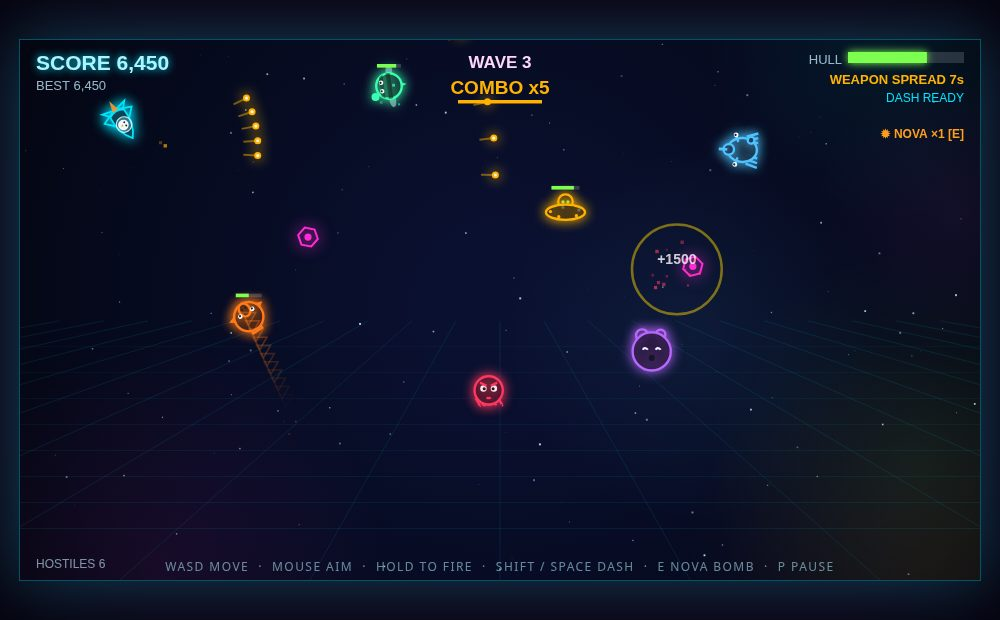
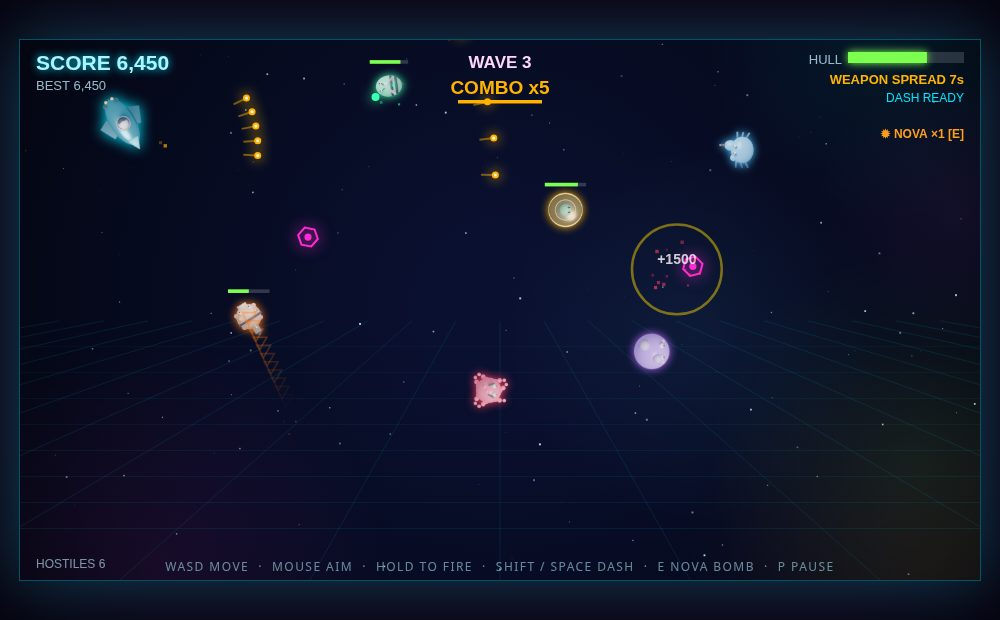
v15: Blender-modelled sprite cast - every character was rebuilt as a 3D model in Blender (procedural primitives, Cycles renders, dev/build_sprites.py) and exported as transparent sprites: the penguin-pilot fighter, octopus chaser/mini with in-plane tentacle chains (2-frame sway), crowned Warden (2 f

diff --git a/game/index.html b/game/index.html
@@ -163,6 +163,21 @@ cv.addEventListener('touchstart', (e) => { e.preventDefault(); const t = e.touch
 cv.addEventListener('touchmove', (e) => { e.preventDefault(); const t = e.touches[0]; const p = canvasPos(t); mouse.x = p.x; mouse.y = p.y; }, { passive: false });
 cv.addEventListener('touchend', (e) => { e.preventDefault(); mouse.down = false; }, { passive: false });
 
+/* ---------- pre-rendered character sprites (modelled in Blender; see dev/build_sprites.py) ---------- */
+const SPR = {};
+let sprReady = 0, sprTotal = 0;
+function loadSprite(name, file) {
+  sprTotal++;
+  const img = new Image();
+  img.onload = () => { sprReady++; };
+  img.onerror = () => { sprReady++; };
+  img.src = 'sprites/' + file;
+  SPR[name] = img;
+}
+loadSprite('player', 'player.png');
+for (const t of ['chaser', 'mini', 'orbiter', 'warden']) { loadSprite(t + '0', t + '0.png'); loadSprite(t + '1', t + '1.png'); }
+for (const t of ['spinner', 'splitter', 'sniper', 'charger']) loadSprite(t, t + '.png');
+
 /* ---------- particles & pickups ---------- */
 function burst(x, y, color, n, spd) {
   if (parts.length > 460) return; // particle budget keeps the frame rate safe
@@ -754,37 +769,27 @@ function drawPlayer() {
   ctx.save();
   ctx.translate(player.x, player.y);
   ctx.rotate(player.angle);
-  ctx.globalAlpha = blink ? 0.35 : 1;
-  ctx.shadowColor = '#00e5ff'; ctx.shadowBlur = 13;
-  ctx.fillStyle = player.dashTime > 0 ? '#aef7ff' : '#0b2b3a';
-  ctx.strokeStyle = '#00e5ff'; ctx.lineWidth = 1.8;
-  // tail fins and swept wings: a proper little fighter silhouette, not an arrowhead
-  ctx.beginPath(); ctx.moveTo(-7, -4); ctx.lineTo(-17, -13); ctx.lineTo(-14, -1); ctx.closePath(); ctx.fill(); ctx.stroke();
-  ctx.beginPath(); ctx.moveTo(-7, 4); ctx.lineTo(-17, 13); ctx.lineTo(-14, 1); ctx.closePath(); ctx.fill(); ctx.stroke();
-  ctx.beginPath(); ctx.moveTo(3, -5); ctx.lineTo(-8, -16); ctx.lineTo(-13, -4); ctx.closePath(); ctx.fill(); ctx.stroke();
-  ctx.beginPath(); ctx.moveTo(3, 5); ctx.lineTo(-8, 16); ctx.lineTo(-13, 4); ctx.closePath(); ctx.fill(); ctx.stroke();
-  // hull
-  ctx.beginPath();
-  ctx.moveTo(19, 0);
-  ctx.quadraticCurveTo(8, 9.5, -10, 8);
-  ctx.quadraticCurveTo(-15, 0, -10, -8);
-  ctx.quadraticCurveTo(8, -9.5, 19, 0);
-  ctx.closePath(); ctx.fill(); ctx.stroke();
-  ctx.shadowBlur = 0;
-  // glass cockpit dome, and inside it the penguin pilot — a bow to the great parody shooters
-  circ(3, 0, 7.8); ctx.fillStyle = 'rgba(160,230,255,0.30)'; ctx.fill();
-  ctx.strokeStyle = 'rgba(230,250,255,0.85)'; ctx.lineWidth = 1.2; circ(3, 0, 7.8); ctx.stroke();
-  circ(3, 0.8, 5.3); ctx.fillStyle = '#f4fbff'; ctx.fill();
-  ctx.fillStyle = '#12222e';
-  circ(1.1, -1.4, 0.95); ctx.fill();
-  circ(4.9, -1.4, 0.95); ctx.fill();
-  ctx.fillStyle = '#ffb300';
-  ctx.beginPath(); ctx.moveTo(1.5, 1.3); ctx.lineTo(4.5, 1.3); ctx.lineTo(3, 3.5); ctx.closePath(); ctx.fill();
-  // engine flame
-  const fl = 6 + Math.sin(G.time * 31) * 2.5 + (Math.hypot(player.vx, player.vy) > 40 ? 5 : 0);
+  // engine flame behind the hull
+  const fl = 7 + Math.sin(G.time * 31) * 2.5 + (Math.hypot(player.vx, player.vy) > 40 ? 6 : 0);
   ctx.fillStyle = 'rgba(255,150,40,0.9)';
-  ctx.beginPath(); ctx.moveTo(-13, 3.2); ctx.lineTo(-13 - fl, 0); ctx.lineTo(-13, -3.2); ctx.closePath(); ctx.fill();
+  ctx.beginPath(); ctx.moveTo(-14, 3.4); ctx.lineTo(-14 - fl, 0); ctx.lineTo(-14, -3.4); ctx.closePath(); ctx.fill();
+  ctx.globalAlpha = blink ? 0.35 : 1;
+  const img = SPR.player;
+  if (img && img.naturalWidth) {
+    ctx.shadowColor = '#00e5ff'; ctx.shadowBlur = 14;
+    const S = 64;
+    ctx.drawImage(img, -S / 2, -S / 2, S, S);
+    ctx.shadowBlur = 0;
+  }
   ctx.restore();
+}
+const DS = { chaser: 4.4, mini: 4.4, spinner: 3.6, splitter: 3.8, sniper: 3.9, charger: 3.9, orbiter: 3.9, warden: 3.9 };
+function spriteFor(type) {
+  if (type === 'chaser' || type === 'mini' || type === 'orbiter' || type === 'warden') {
+    const rate = type === 'orbiter' ? 7 : 2.2; // bees flap fast; tentacles sway slowly
+    return SPR[type + (Math.floor(G.time * rate) % 2)];
+  }
+  return SPR[type];
 }
 function drawEnemies() {
   for (const e of enemies) {
@@ -796,177 +801,25 @@ function drawEnemies() {
       const ws = 1 - wf * 0.55;
       ctx.scale(ws, ws);
     }
-    // characters draw a touch larger than their hit circles: kinder to the player, kinder to the eye
-    if (e.type !== 'warden') ctx.scale(1.18, 1.18);
-    // Character cast, in the spirit of the great parody shooters: every type is a creature
-    // with a face, not a polygon. F = the type's neon accent, BODY = its dark shell.
-    const F = e.flash > 0 ? '#ffffff' : e.color;
-    const BODY = e.flash > 0 ? 'rgba(255,255,255,0.92)' : 'rgba(12,10,26,0.88)';
-    const r = e.r, t = G.time;
-    ctx.shadowColor = e.color; ctx.shadowBlur = 12;
-    ctx.lineWidth = 2; ctx.strokeStyle = F; ctx.fillStyle = BODY;
-    if (e.type === 'chaser' || e.type === 'mini') {
-      // octopus: wavy tentacles, angry eyes — the mini is the same creature, younger
-      ctx.beginPath();
-      const legs = e.type === 'mini' ? 4 : 5;
-      for (let k = 0; k < legs; k++) {
-        const bx = (k - (legs - 1) / 2) * r * 0.36;
-        ctx.moveTo(bx - r * 0.13, r * 0.5);
-        ctx.quadraticCurveTo(bx + Math.sin(t * 6 + k * 1.4 + e.rot) * r * 0.24, r * 1.02, bx + r * 0.15, r * (0.98 + 0.1 * Math.sin(t * 6 + k + e.rot)));
-      }
-      ctx.stroke();
-      circ(0, 0, r * 0.92); ctx.fill(); ctx.stroke();
-      if (e.type === 'mini') {
-        ctx.fillStyle = '#fff'; circ(0, -r * 0.08, r * 0.30); ctx.fill();
-        ctx.fillStyle = '#141824'; circ(r * 0.06, -r * 0.06, r * 0.14); ctx.fill();
-        ctx.strokeStyle = F; ctx.beginPath(); ctx.arc(0, r * 0.28, r * 0.15, 0.2 * Math.PI, 0.8 * Math.PI); ctx.stroke();
-      } else {
-        ctx.fillStyle = '#fff';
-        circ(-r * 0.34, -r * 0.12, r * 0.21); ctx.fill();
-        circ(r * 0.34, -r * 0.12, r * 0.21); ctx.fill();
-        ctx.fillStyle = '#141824';
-        circ(-r * 0.29, -r * 0.10, r * 0.10); ctx.fill();
-        circ(r * 0.29, -r * 0.10, r * 0.10); ctx.fill();
-        ctx.strokeStyle = F; ctx.beginPath();
-        ctx.moveTo(-r * 0.56, -r * 0.5); ctx.lineTo(-r * 0.14, -r * 0.3);
-        ctx.moveTo(r * 0.56, -r * 0.5); ctx.lineTo(r * 0.14, -r * 0.3);
-        ctx.stroke();
-        ctx.beginPath(); ctx.arc(0, r * 0.36, r * 0.15, 0.2 * Math.PI, 0.8 * Math.PI); ctx.stroke();
-      }
-    } else if (e.type === 'spinner') {
-      // UFO: a little alien in a glass dome over a saucer with rotating rim lights
-      circ(0, -r * 0.5, r * 0.44); ctx.fill(); ctx.stroke();
-      ctx.fillStyle = '#8dff6a';
-      circ(-r * 0.15, -r * 0.48, r * 0.10); ctx.fill();
-      circ(r * 0.15, -r * 0.48, r * 0.10); ctx.fill();
-      ctx.fillStyle = BODY;
-      ctx.beginPath(); ctx.ellipse(0, r * 0.14, r * 1.18, r * 0.46, 0, 0, TAU); ctx.fill(); ctx.stroke();
-      for (let k = 0; k < 5; k++) {
-        const a = e.rot + (k / 5) * TAU;
-        ctx.fillStyle = Math.sin(a) > -0.2 ? F : 'rgba(255,255,255,0.25)';
-        circ(Math.cos(a) * r * 0.92, r * 0.14 + Math.sin(a) * r * 0.3, r * 0.1); ctx.fill();
-      }
-    } else if (e.type === 'splitter') {
-      // blob parent carrying two babies: squash-and-stretch as it wobbles in
-      const sq = 1 + Math.sin(t * 3.2 + e.rot) * 0.07;
-      ctx.save(); ctx.scale(1 / Math.sqrt(sq), sq);
-      circ(-r * 0.48, -r * 0.8, r * 0.3); ctx.fill(); ctx.stroke();
-      circ(r * 0.44, -r * 0.84, r * 0.24); ctx.fill(); ctx.stroke();
-      circ(0, 0, r * 0.95); ctx.fill(); ctx.stroke();
-      ctx.strokeStyle = '#f2f7ff'; ctx.lineWidth = 1.7;
-      ctx.beginPath(); ctx.arc(-r * 0.32, -r * 0.02, r * 0.14, 1.15 * Math.PI, 1.85 * Math.PI); ctx.stroke();
-      ctx.beginPath(); ctx.arc(r * 0.32, -r * 0.02, r * 0.14, 1.15 * Math.PI, 1.85 * Math.PI); ctx.stroke();
-      ctx.fillStyle = '#141824'; circ(0, r * 0.32, r * 0.15); ctx.fill();
-      ctx.restore();
-    } else if (e.type === 'sniper') {
-      // crab: eye stalks, six legs, and one oversized cannon claw aimed at the player
-      ctx.rotate(Math.atan2(player.y - e.y, player.x - e.x));
-      ctx.beginPath();
-      for (const s of [-1, 1]) for (let k = 0; k < 3; k++) {
-        const ly = s * (r * 0.28 + k * r * 0.3);
-        ctx.moveTo(-r * 0.25, ly); ctx.lineTo(-r * 1.0, ly + s * r * 0.24);
-      }
-      ctx.stroke();
-      ctx.beginPath(); ctx.ellipse(0, 0, r * 0.95, r * 0.78, 0, 0, TAU); ctx.fill(); ctx.stroke();
-      ctx.beginPath();
-      ctx.moveTo(r * 0.28, -r * 0.5); ctx.lineTo(r * 0.42, -r * 0.92);
-      ctx.moveTo(r * 0.28, r * 0.5); ctx.lineTo(r * 0.42, r * 0.92);
-      ctx.stroke();
-      ctx.fillStyle = '#fff';
-      circ(r * 0.44, -r * 0.96, r * 0.16); ctx.fill();
-      circ(r * 0.44, r * 0.96, r * 0.16); ctx.fill();
-      ctx.fillStyle = '#141824';
-      circ(r * 0.48, -r * 0.96, r * 0.07); ctx.fill();
-      circ(r * 0.48, r * 0.96, r * 0.07); ctx.fill();
-      ctx.fillStyle = BODY; circ(r * 0.88, 0, r * 0.34); ctx.fill(); ctx.stroke();
-      ctx.fillStyle = F; ctx.fillRect(r * 0.98, -r * 0.09, r * 0.55, r * 0.18);
-      ctx.fillStyle = BODY; circ(-r * 0.55, r * 0.66, r * 0.22); ctx.fill(); ctx.stroke();
-    } else if (e.type === 'charger') {
-      // rocket pig: snout first, ears up, and a rocket pack that flares on the telegraph
-      ctx.rotate(Math.atan2(player.y - e.y, player.x - e.x));
-      if (e.tele) {
-        const fl = r * (0.7 + Math.random() * 0.5);
-        ctx.fillStyle = 'rgba(255,150,40,0.9)';
-        ctx.beginPath(); ctx.moveTo(-r * 1.05, r * 0.3); ctx.lineTo(-r * 1.05 - fl, 0); ctx.lineTo(-r * 1.05, -r * 0.3); ctx.closePath(); ctx.fill();
-      }
-      ctx.fillStyle = BODY; ctx.fillRect(-r * 1.08, -r * 0.34, r * 0.42, r * 0.68); ctx.strokeRect(-r * 1.08, -r * 0.34, r * 0.42, r * 0.68);
-      ctx.beginPath();
-      ctx.moveTo(r * 0.05, -r * 0.72); ctx.lineTo(r * 0.34, -r * 1.12); ctx.lineTo(r * 0.52, -r * 0.62); ctx.closePath(); ctx.fill(); ctx.stroke();
-      ctx.beginPath();
-      ctx.moveTo(r * 0.05, r * 0.72); ctx.lineTo(r * 0.34, r * 1.12); ctx.lineTo(r * 0.52, r * 0.62); ctx.closePath(); ctx.fill(); ctx.stroke();
-      circ(0, 0, r * 0.95); ctx.fill(); ctx.stroke();
-      ctx.beginPath(); ctx.ellipse(r * 0.52, 0, r * 0.44, r * 0.35, 0, 0, TAU); ctx.fill(); ctx.stroke();
-      ctx.fillStyle = '#141824';
-      circ(r * 0.6, -r * 0.13, r * 0.065); ctx.fill();
-      circ(r * 0.6, r * 0.13, r * 0.065); ctx.fill();
-      ctx.fillStyle = '#fff';
-      circ(r * 0.3, -r * 0.46, r * 0.15); ctx.fill();
-      circ(r * 0.3, r * 0.46, r * 0.15); ctx.fill();
-      ctx.fillStyle = '#141824';
-      circ(r * 0.34, -r * 0.46, r * 0.07); ctx.fill();
-      circ(r * 0.34, r * 0.46, r * 0.07); ctx.fill();
-    } else if (e.type === 'orbiter') {
-      // bee: flapping wings, bold stripes, a sting, and a determined little face
-      ctx.rotate(Math.atan2(player.y - e.y, player.x - e.x));
-      const wf = Math.sin(t * 32 + e.rot * 4) * 0.45;
-      ctx.fillStyle = 'rgba(220,250,255,0.5)';
-      ctx.save(); ctx.translate(-r * 0.1, -r * 0.72); ctx.rotate(-0.5 + wf);
-      ctx.beginPath(); ctx.ellipse(0, -r * 0.3, r * 0.24, r * 0.5, 0, 0, TAU); ctx.fill(); ctx.restore();
-      ctx.save(); ctx.translate(-r * 0.1, r * 0.72); ctx.rotate(0.5 - wf);
-      ctx.beginPath(); ctx.ellipse(0, r * 0.3, r * 0.24, r * 0.5, 0, 0, TAU); ctx.fill(); ctx.restore();
-      ctx.fillStyle = F;
-      ctx.beginPath(); ctx.moveTo(-r * 0.85, -r * 0.16); ctx.lineTo(-r * 1.25, 0); ctx.lineTo(-r * 0.85, r * 0.16); ctx.closePath(); ctx.fill();
-      ctx.fillStyle = BODY; circ(0, 0, r * 0.9); ctx.fill(); ctx.stroke();
-      ctx.save(); circ(0, 0, r * 0.9); ctx.clip();
-      ctx.fillStyle = 'rgba(8,12,8,0.55)';
-      ctx.fillRect(-r * 0.18, -r, r * 0.3, 2 * r);
-      ctx.fillRect(r * 0.36, -r, r * 0.26, 2 * r);
-      ctx.restore();
-      ctx.fillStyle = '#fff';
-      circ(r * 0.52, -r * 0.3, r * 0.16); ctx.fill();
-      circ(r * 0.52, r * 0.3, r * 0.16); ctx.fill();
-      ctx.fillStyle = '#141824';
-      circ(r * 0.56, -r * 0.3, r * 0.075); ctx.fill();
-      circ(r * 0.56, r * 0.3, r * 0.075); ctx.fill();
-    } else if (e.type === 'warden') {
-      // the Warden: a giant crowned octopus, six long tentacles waving beneath it
-      ctx.beginPath();
-      for (let k = 0; k < 6; k++) {
-        const bx = (k - 2.5) * r * 0.3;
-        ctx.moveTo(bx - r * 0.1, r * 0.55);
-        ctx.quadraticCurveTo(bx + Math.sin(t * 2.6 + k * 1.1) * r * 0.3, r * 1.15, bx + r * 0.14, r * (1.25 + 0.12 * Math.sin(t * 2.6 + k * 0.9)));
-      }
-      ctx.lineWidth = 3; ctx.stroke(); ctx.lineWidth = 2;
-      circ(0, 0, r * 0.98); ctx.fill(); ctx.stroke();
-      // crown
-      ctx.fillStyle = '#ffd700'; ctx.strokeStyle = '#c9930a';
-      ctx.beginPath();
-      ctx.moveTo(-r * 0.52, -r * 0.78);
-      ctx.lineTo(-r * 0.52, -r * 1.08); ctx.lineTo(-r * 0.28, -r * 0.86);
-      ctx.lineTo(-r * 0.13, -r * 1.18); ctx.lineTo(0, -r * 0.88);
-      ctx.lineTo(r * 0.13, -r * 1.18); ctx.lineTo(r * 0.28, -r * 0.86);
-      ctx.lineTo(r * 0.52, -r * 1.08); ctx.lineTo(r * 0.52, -r * 0.78);
-      ctx.closePath(); ctx.fill(); ctx.stroke();
-      ctx.fillStyle = '#ff2bd6'; circ(0, -r * 0.95, r * 0.07); ctx.fill();
-      ctx.fillStyle = '#00e5ff'; circ(-r * 0.38, -r * 0.9, r * 0.055); ctx.fill(); circ(r * 0.38, -r * 0.9, r * 0.055); ctx.fill();
-      // face
-      ctx.fillStyle = '#fff';
-      circ(-r * 0.33, -r * 0.1, r * 0.19); ctx.fill();
-      circ(r * 0.33, -r * 0.1, r * 0.19); ctx.fill();
-      ctx.fillStyle = '#141824';
-      circ(-r * 0.3, -r * 0.08, r * 0.09); ctx.fill();
-      circ(r * 0.3, -r * 0.08, r * 0.09); ctx.fill();
-      ctx.strokeStyle = F; ctx.beginPath();
-      ctx.moveTo(-r * 0.54, -r * 0.44); ctx.lineTo(-r * 0.14, -r * 0.26);
-      ctx.moveTo(r * 0.54, -r * 0.44); ctx.lineTo(r * 0.14, -r * 0.26);
-      ctx.stroke();
-      ctx.beginPath(); ctx.arc(0, r * 0.55, r * 0.2, 1.2 * Math.PI, 1.8 * Math.PI); ctx.stroke();
+    const S = e.r * (DS[e.type] || 3.1);
+    if (e.type === 'sniper' || e.type === 'charger' || e.type === 'orbiter')
+      ctx.rotate(Math.atan2(player.y - e.y, player.x - e.x)); // these creatures face their target
+    if (e.type === 'splitter') { // squash-and-stretch wobble on the sprite
+      const sq = 1 + Math.sin(G.time * 3.2 + e.rot) * 0.07;
+      ctx.scale(1 / Math.sqrt(sq), sq);
     }
-    ctx.shadowBlur = 0;
+    const img = spriteFor(e.type);
+    if (img && img.naturalWidth) {
+      ctx.save();
+      ctx.shadowColor = e.color; ctx.shadowBlur = 8;
+      if (e.flash > 0) ctx.filter = 'brightness(2.4) saturate(0.35)';
+      ctx.drawImage(img, -S / 2, -S / 2, S, S);
+      ctx.restore();
+    }
     if (e.elite) { // golden halo ring marks an elite
       ctx.strokeStyle = '#ffd700'; ctx.lineWidth = 1.6;
       ctx.shadowColor = '#ffd700'; ctx.shadowBlur = 10;
-      poly(0, 0, e.r + 4.5, e.sides, -e.rot * 0.8);
+      poly(0, 0, S * 0.47, e.sides, -e.rot * 0.8);
       ctx.stroke();
       ctx.shadowBlur = 0;
     }
@@ -977,7 +830,7 @@ function drawEnemies() {
       ctx.lineWidth = 2;
       ctx.setLineDash([12, 8]);
       ctx.lineDashOffset = -G.time * 26;
-      ctx.beginPath(); ctx.arc(0, 0, e.r + 13, 0, TAU); ctx.stroke();
+      ctx.beginPath(); ctx.arc(0, 0, S * 0.5 + 5, 0, TAU); ctx.stroke();
       ctx.restore();
     }
     ctx.restore();
@@ -990,10 +843,10 @@ function drawEnemies() {
       ctx.restore();
     }
     if (e.hp < e.maxhp) { // hp bar
-      const w = e.r * 2, pct = clamp(e.hp / e.maxhp, 0, 1);
-      ctx.fillStyle = 'rgba(255,255,255,0.18)'; ctx.fillRect(e.x - e.r, e.y - e.r - 10, w, 3.6);
+      const w = S * 0.82, pct = clamp(e.hp / e.maxhp, 0, 1);
+      ctx.fillStyle = 'rgba(255,255,255,0.18)'; ctx.fillRect(e.x - w / 2, e.y - S * 0.36 - 9, w, 3.6);
       ctx.fillStyle = e.type === 'warden' ? '#ff1744' : '#7cff4f';
-      ctx.fillRect(e.x - e.r, e.y - e.r - 10, w * pct, 3.6);
+      ctx.fillRect(e.x - w / 2, e.y - S * 0.36 - 9, w * pct, 3.6);
     }
   }
 }
@@ -1061,12 +914,20 @@ function drawParts() {
       ctx.fillText(p.text, p.x, p.y);
       ctx.restore();
     } else if (p.ghost) {
-      ctx.save();
-      ctx.globalAlpha = a * 0.4;
-      ctx.strokeStyle = p.color; ctx.lineWidth = 1.6;
-      poly(p.x, p.y, p.size, 3, G.time * 2);
-      ctx.stroke();
-      ctx.restore();
+      if (p.color === '#00e5ff' && SPR.player && SPR.player.naturalWidth) {
+        ctx.save();
+        ctx.globalAlpha = a * 0.38;
+        const gs = p.size * 6.4;
+        ctx.drawImage(SPR.player, p.x - gs / 2, p.y - gs / 2, gs, gs);
+        ctx.restore();
+      } else {
+        ctx.save();
+        ctx.globalAlpha = a * 0.4;
+        ctx.strokeStyle = p.color; ctx.lineWidth = 1.6;
+        poly(p.x, p.y, p.size, 3, G.time * 2);
+        ctx.stroke();
+        ctx.restore();
+      }
     } else {
       ctx.save();
       ctx.globalAlpha = a;
@@ -1461,7 +1322,9 @@ function shotScene() {
   window.__shot_ready = true;
 }
 addEventListener('blur', () => { if (G.state === 'playing') G.state = 'paused'; });
-if (SHOT) shotScene();
+if (SHOT) {
+  const sprIv = setInterval(() => { if (sprReady >= sprTotal) { clearInterval(sprIv); shotScene(); } }, 25);
+}
 else requestAnimationFrame(frame);
 </script>
 </body>
